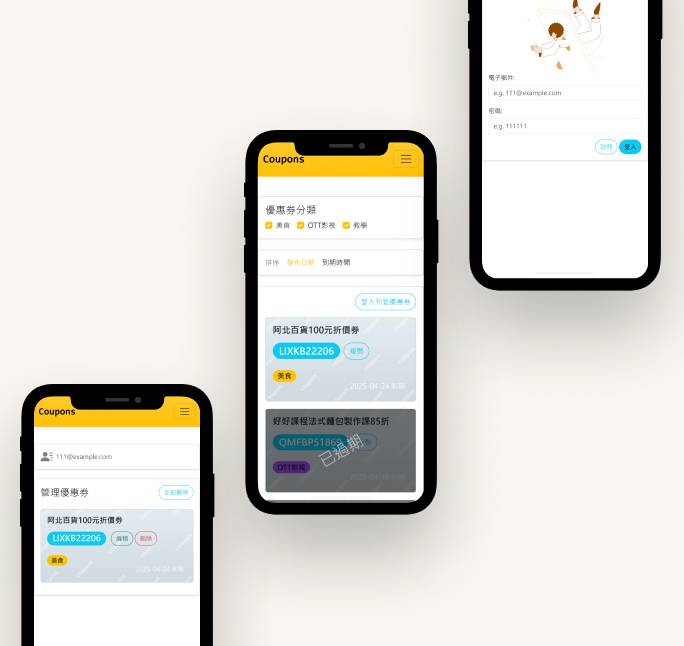
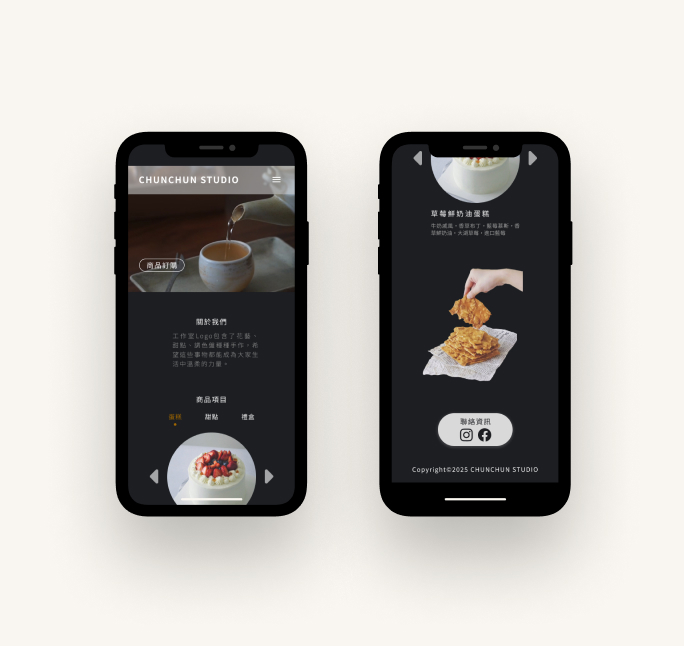
v2

diff --git a/js/data.js b/js/data.js
@@ -1,23 +1,30 @@
 let data = [
   {
     id: 1,
-    title: "CHUNCHUN STUDIO",
-    desc: "甜點工作室的靜態網頁。",
-    tags: ["HTML", "CSS", "JavaScript"],
-    url: "./chunchunStudio/index.html",
+    title: "PETSLOVE",
+    desc: "寵物領養的靜態網頁。",
+    tags: ["HTML", "SCSS", "JavaScript"],
+    url: "https://petslove-q45l.onrender.com",
   },
   {
     id: 2,
+    title: "CHUNCHUN STUDIO",
+    desc: "甜點工作室的靜態網頁。",
+    tags: ["HTML", "SCSS", "JavaScript"],
+    url: "./chunchunStudio/index.html",
+  },
+  {
+    id: 3,
     title: "Get Coupons",
     desc: "找尋或發布分享優惠券的網站。",
     tags: ["HTML", "CSS", "JavaScript", "Bootstrap", "Vue"],
     url: "https://vue-coupons.firebaseapp.com/coupons",
   },
   {
-    id: 3,
+    id: 4,
     title: "Get Lucky",
     desc: "抽籤網頁。",
     tags: ["HTML", "CSS", "JavaScript"],
-    url: "./get_lucky/index.html",
+    url: "./petslove/index.html",
   },
 ];

diff --git a/styles/style.scss b/styles/style.scss
@@ -205,8 +205,15 @@ header.container {
 main.web {
   .card {
     .card-img {
+      // border: 1px solid #000;
+      width: 100%;
+      height: 300px;
       position: relative;
       margin-bottom: 12px;
+      img{
+        height: 100%;
+        object-fit: cover;
+      }
       .dot-item {
         position: absolute;
         top: 0.5rem;

diff --git a/css/style.css b/css/style.css
@@ -189,8 +189,15 @@ header.container ul li {
 
 /* main web */
 main.web .card .card-img {
+  width: 100%;
+  height: 300px;
   position: relative;
   margin-bottom: 12px;
+}
+main.web .card .card-img img {
+  height: 100%;
+  -o-object-fit: cover;
+     object-fit: cover;
 }
 main.web .card .card-img .dot-item {
   position: absolute;
